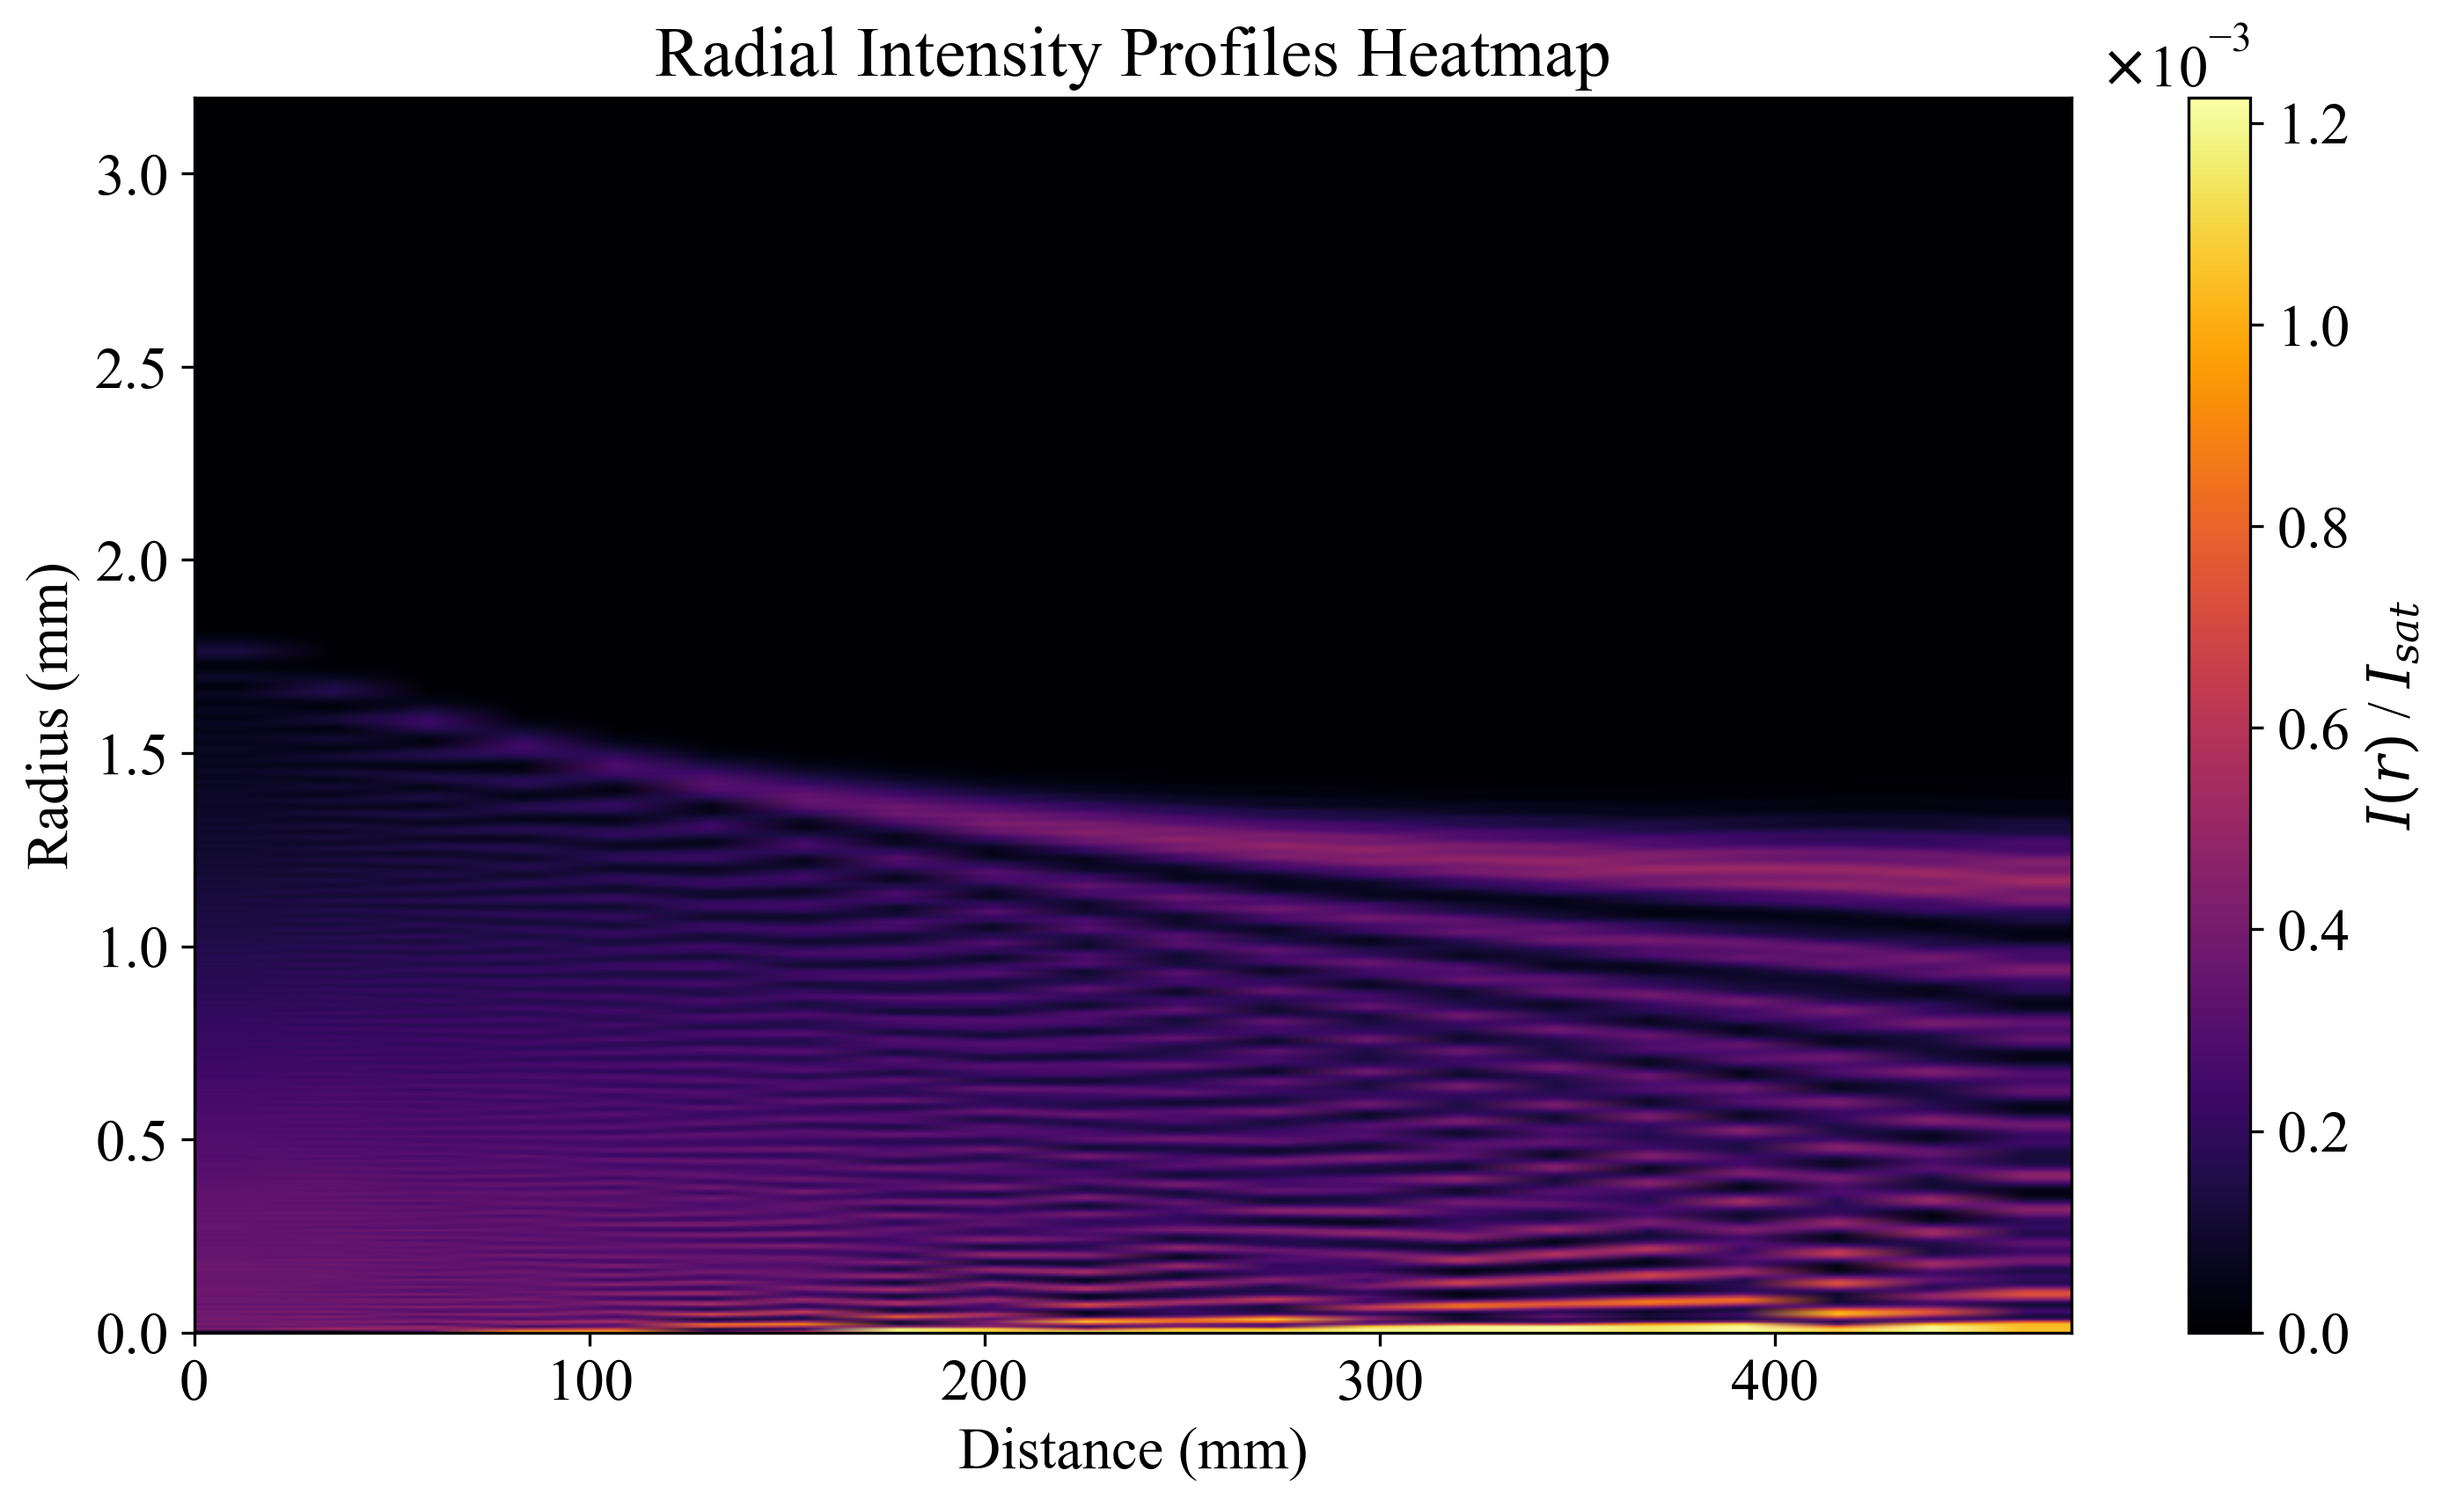
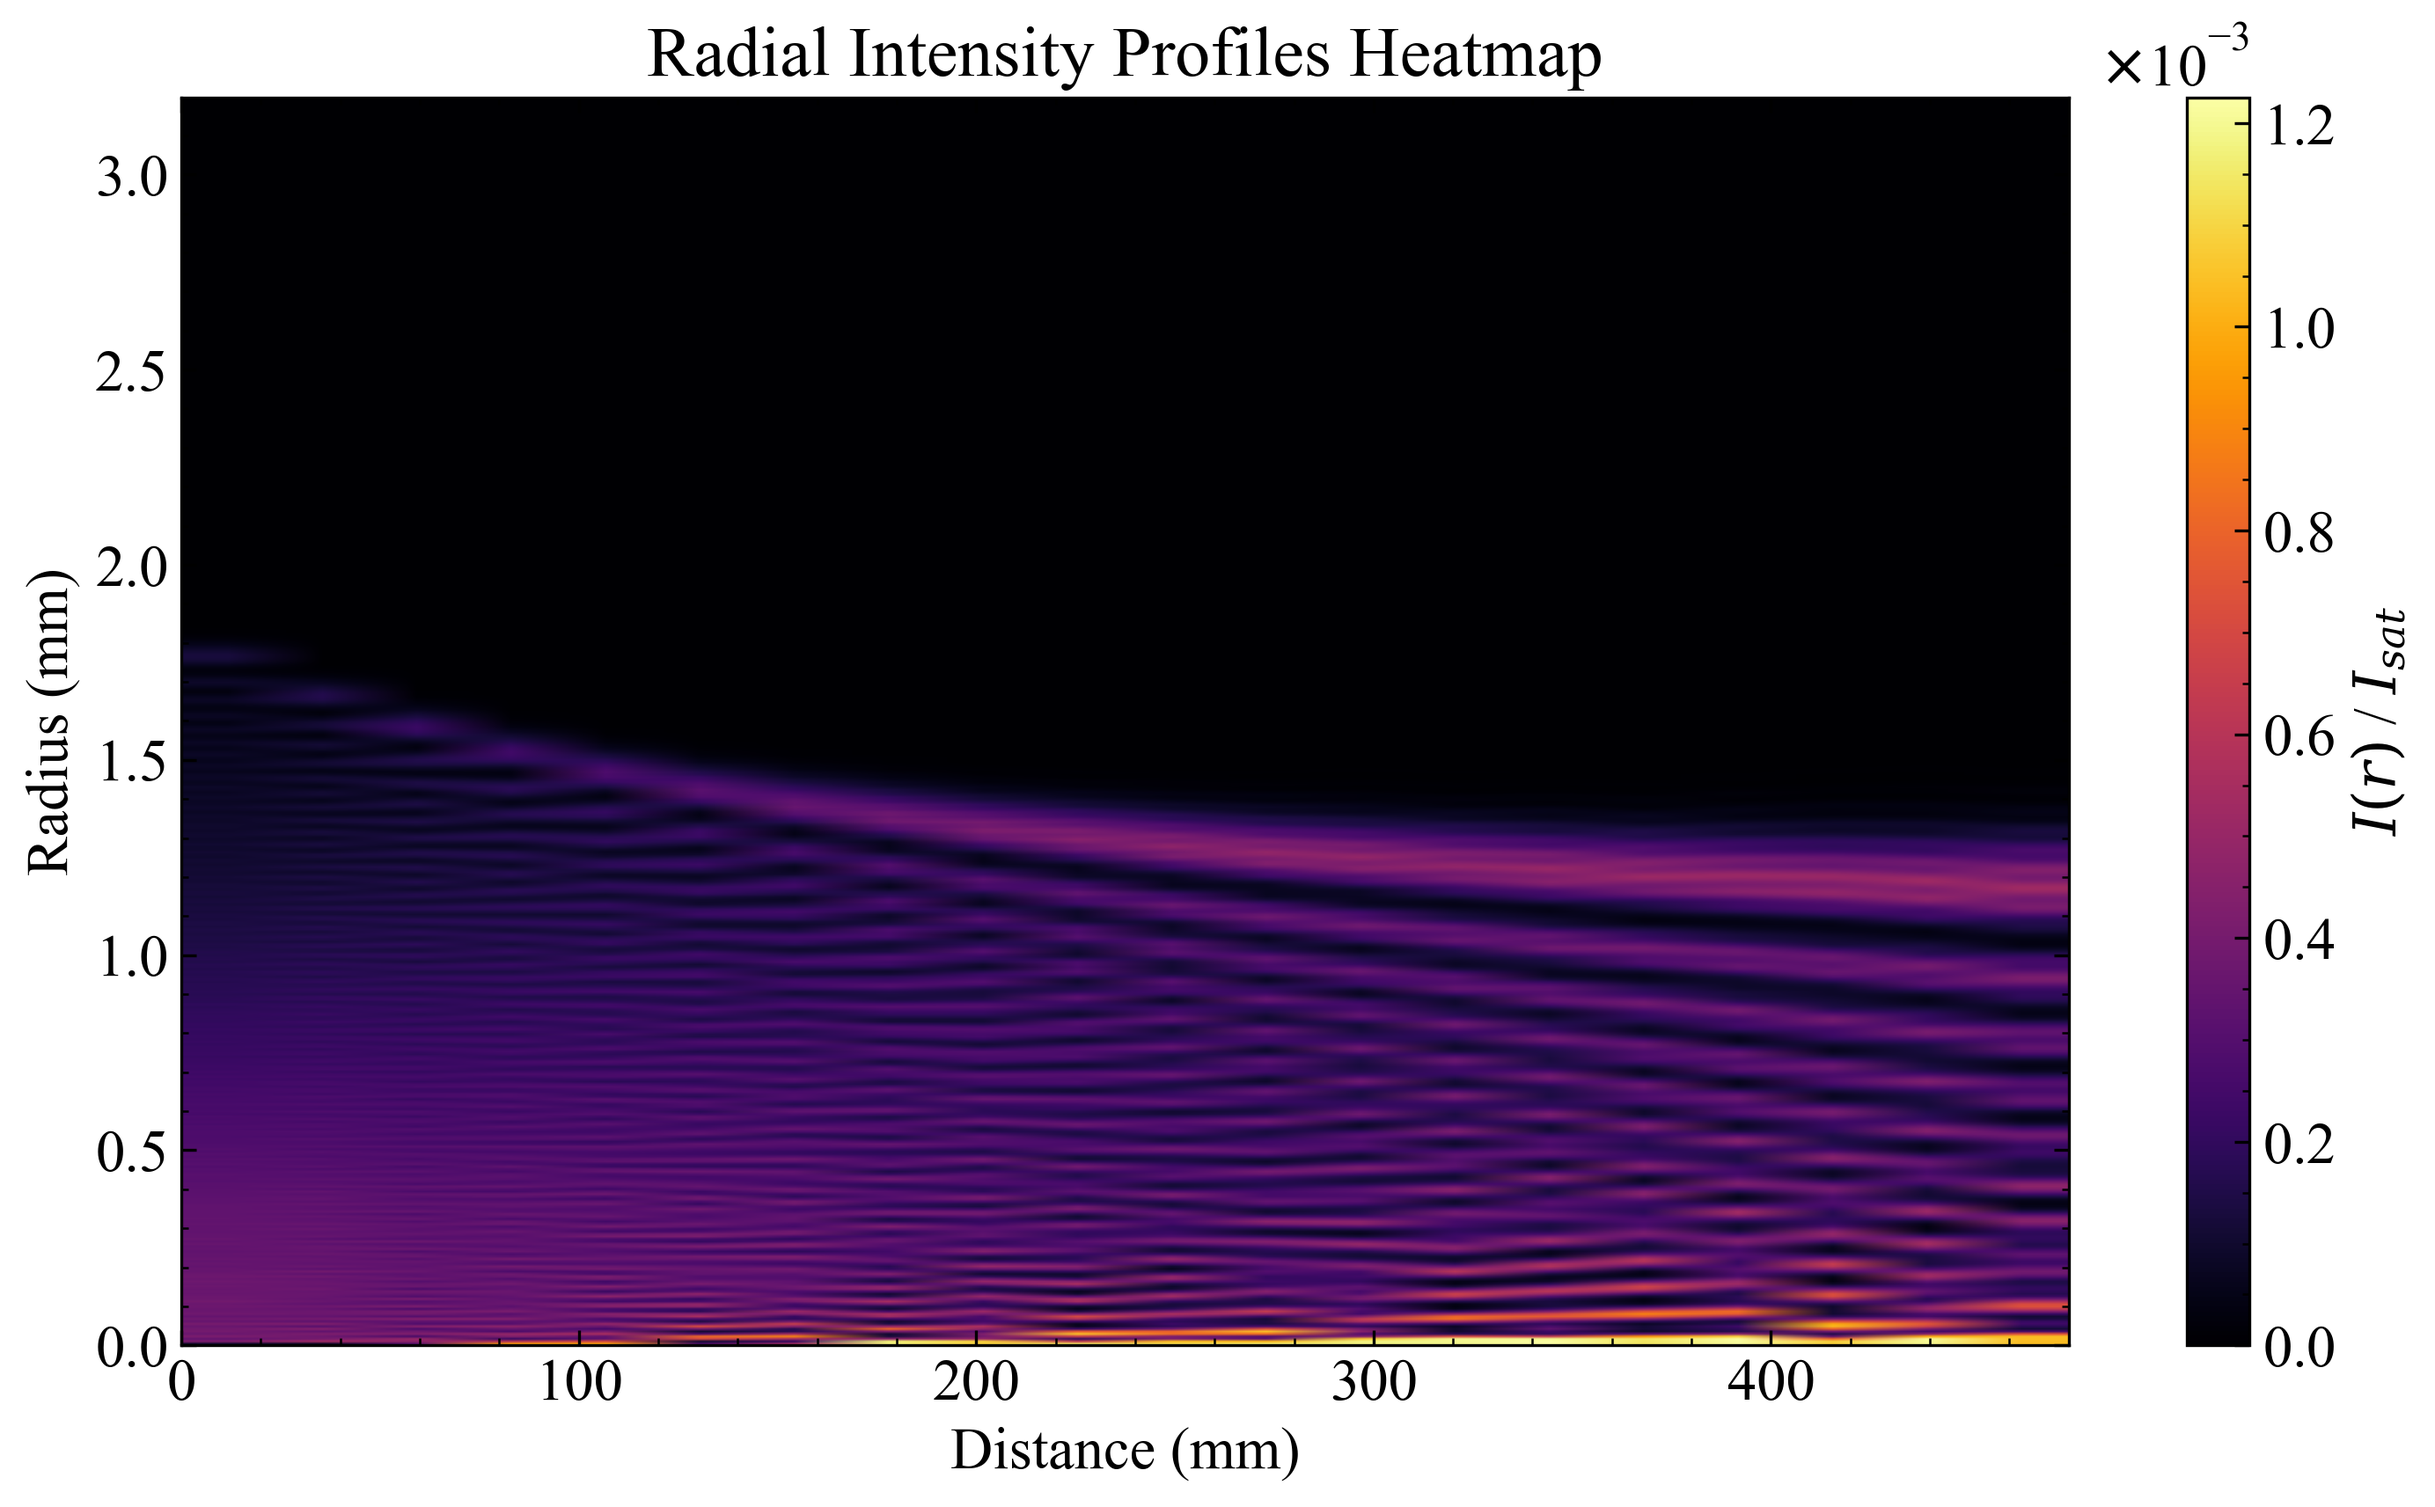
40 Done I think

diff --git a/elecsus_silver.py b/elecsus_silver.py
@@ -15,6 +15,19 @@ rcParams['font.serif'] = ['Times New Roman'] # specify a particular font
 rcParams['font.size'] = fontsz
 rcParams['mathtext.fontset'] = 'dejavuserif' # or 'cm', 'stix', 'custom'
 
+from matplotlib.ticker import AutoMinorLocator
+
+rcParams['xtick.direction'] = 'in'
+rcParams['ytick.direction'] = 'in'
+rcParams['xtick.top'] = True
+rcParams['ytick.right'] = True
+rcParams['xtick.minor.visible'] = True
+rcParams['ytick.minor.visible'] = True
+rcParams['xtick.major.size'] = 4
+rcParams['ytick.major.size'] = 4
+rcParams['xtick.minor.size'] = 2
+rcParams['ytick.minor.size'] = 2
+
 Detuning=np.linspace(-10,10,2000)*1e3 #Detuning range between -10 and 10 GHz. Needs to be input in MHz
 E_in=np.array([1,0,0]) #Horizontal Linear Light input. We define E_in = [Ex,Ey,Ez]
 

diff --git a/imageIntegration.py b/imageIntegration.py
@@ -5,6 +5,20 @@ import os
 from scipy.integrate import cumulative_trapezoid as cumtrapz
 from matplotlib import rcParams
 
+from matplotlib.ticker import AutoMinorLocator
+
+rcParams['xtick.direction'] = 'in'
+rcParams['ytick.direction'] = 'in'
+rcParams['xtick.top'] = True
+rcParams['ytick.right'] = True
+rcParams['xtick.minor.visible'] = True
+rcParams['ytick.minor.visible'] = True
+rcParams['xtick.major.size'] = 4
+rcParams['ytick.major.size'] = 4
+rcParams['xtick.minor.size'] = 2
+rcParams['ytick.minor.size'] = 2
+
+
 h = 6.62607015e-34  # Planck's constant (J·s)
 c = 2.99792458e8    # speed of light (m/s)
 wavelength = 328.1629601e-9 #wavelength of light
